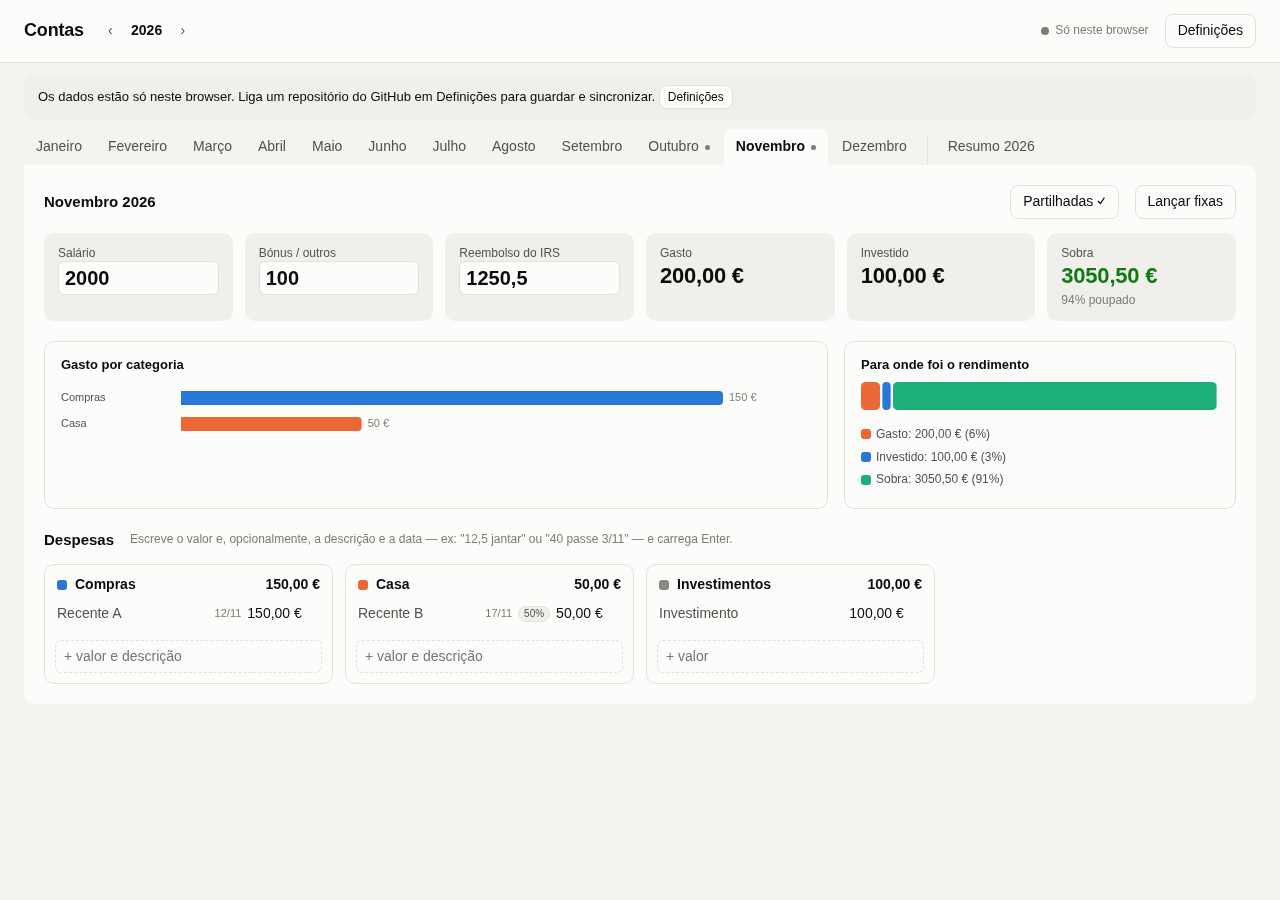
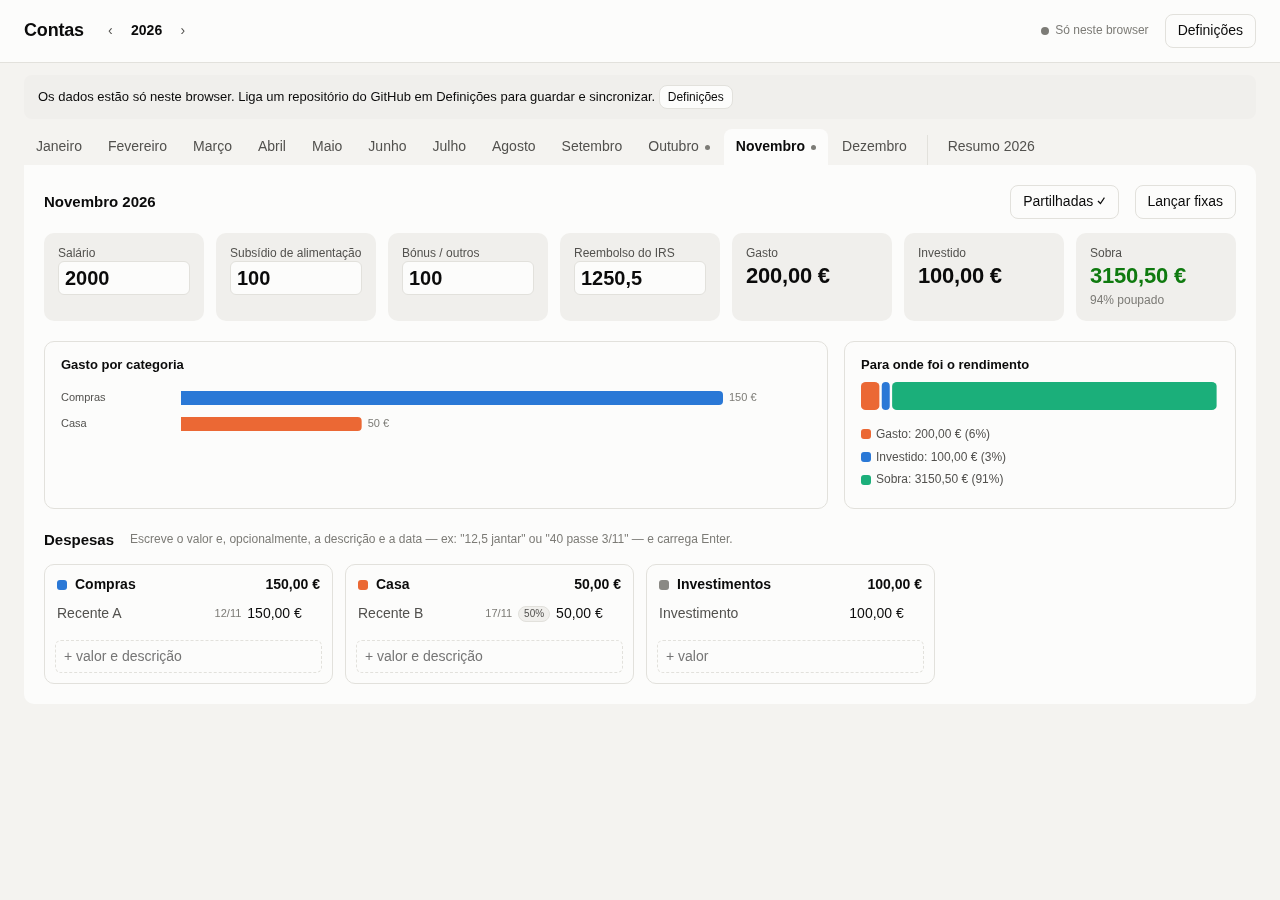
Add optional meal allowance while preserving existing IRS and records

Changed region(s): [[0.3125, 0.28, 0.7812, 0.3422], [0.8125, 0.28, 0.9375, 0.3422], [0.1875, 0.28, 0.2812, 0.3422]]

diff --git a/index.html b/index.html
@@ -240,8 +240,9 @@ function totals(y,m){
   const inv=data.categories.filter(c=>c.invest).reduce((s,c)=>s+(by[c.name]||0),0);
   const spent=Object.entries(by).reduce((s,[k,v])=>s+(data.categories.find(c=>c.name===k)?.invest?0:v),0);
   const irsRefund=+mo.irsRefund||0;
-  const income=mo.salary+mo.bonus+irsRefund;
-  return{by,inv,spent,irsRefund,income,left:income-spent-inv,hasData:mo.expenses.length>0||income>0};
+  const mealAllowance=+mo.mealAllowance||0;
+  const income=mo.salary+mo.bonus+irsRefund+mealAllowance;
+  return{by,inv,spent,irsRefund,mealAllowance,income,left:income-spent-inv,hasData:mo.expenses.length>0||income>0};
 }
 
 /* ---------- GitHub sync ---------- */
@@ -341,6 +342,7 @@ function renderMonth(v,m){
   v.append(head);
   const k=el("div",{class:"kpis"});
   k.append(moneyInput("Salário",mo.salary,n=>{month(year,m,true).salary=n;changed();render()}));
+  k.append(moneyInput("Subsídio de alimentação",mo.mealAllowance,n=>{month(year,m,true).mealAllowance=n;changed();render()},money));
   k.append(moneyInput("Bónus / outros",mo.bonus,n=>{month(year,m,true).bonus=n;changed();render()}));
   k.append(moneyInput("Reembolso do IRS",mo.irsRefund,n=>{month(year,m,true).irsRefund=n;changed();render()},money));
   k.append(kpi("Gasto",fmt(t.spent)));
@@ -410,7 +412,7 @@ function renderYear(v){
   const active=ms.filter(t=>t.hasData).length||1;
   v.append(el("div",{class:"row"},el("h2",{text:`Resumo ${year}`})));
   const k=el("div",{class:"kpis"});
-  k.append(kpi("Rendimento",fmt0(income),"","salário + bónus + IRS"),kpi("Reembolso do IRS",fmt0(sum(t=>t.irsRefund))),kpi("Gasto",fmt0(spent),"",`${fmt0(spent/active)} / mês`),kpi("Investido",fmt0(inv)),
+  k.append(kpi("Rendimento",fmt0(income),"","salário + alimentação + bónus + IRS"),kpi("Reembolso do IRS",fmt0(sum(t=>t.irsRefund))),kpi("Subsídio de alimentação",fmt0(sum(t=>t.mealAllowance))),kpi("Gasto",fmt0(spent),"",`${fmt0(spent/active)} / mês`),kpi("Investido",fmt0(inv)),
     kpi("Sobra",fmt0(left),left>=0?"pos":"neg"),kpi("Taxa de poupança",income?`${Math.round((left+inv)/income*100)}%`:"—","","sobra + investido"));
   v.append(k);
   const charts=el("div",{class:"charts"});
@@ -429,7 +431,7 @@ function renderYear(v){
   const tb=el("tbody");
   const addRow=(label,f,cls)=>{const tr=el("tr",{class:cls||""},el("td",{text:label}));let s=0;ms.forEach(t=>{const val=f(t);s+=val;tr.append(el("td",{text:val?fmt0(val):"–"}))});tr.append(el("td",{text:fmt0(s)}),el("td",{text:fmt0(s/active)}));tb.append(tr)};
   for(const c of spendCats())addRow(c.name,t=>t.by[c.name]||0);
-  addRow("Total gasto",t=>t.spent,"foot");addRow("Investimentos",t=>t.inv);addRow("Reembolso do IRS",t=>t.irsRefund);addRow("Rendimento",t=>t.income);addRow("Sobra",t=>t.hasData?t.left:0,"foot");
+  addRow("Total gasto",t=>t.spent,"foot");addRow("Investimentos",t=>t.inv);addRow("Reembolso do IRS",t=>t.irsRefund);addRow("Subsídio de alimentação",t=>t.mealAllowance);addRow("Rendimento",t=>t.income);addRow("Sobra",t=>t.hasData?t.left:0,"foot");
   tbl.append(tb);
   v.append(el("div",{class:"card"},el("h3",{text:"Tabela"}),el("div",{class:"tablewrap"},tbl)));
 }

diff --git a/docs/qa/meal-allowance.md b/docs/qa/meal-allowance.md
@@ -1,0 +1,19 @@
+# Subsídio de alimentação — verificação de regressão
+
+Data: 2026-11-18. Base: `96f7f448b8306aad07c05d14136595e760ff8310`.
+
+- Campo mensal opcional `mealAllowance`, apresentado como **Subsídio de alimentação**.
+- Incluído uma vez em rendimento/sobra e discriminado no resumo e tabela anuais.
+- Campo ausente equivale a zero; não há migração nem alteração na sincronização.
+- 9 testes Node aprovados, incluindo preservação do IRS, despesas, investimentos,
+  metadados, outros meses, JSON e comparação privada com a normalização anterior.
+- 8 cenários de navegador aprovados: computador, telemóvel, gravação e conflito
+  simulados, para ambos os campos (IRS e alimentação). Cada cenário conserva
+  um valor preexistente no outro campo; exportação e recarregamento verificados.
+- Apenas dados fictícios em testes e capturas. Contextos isolados, chamadas
+  externas bloqueadas/simuladas, nenhum token real ou dado privado incluído.
+- Criada cópia privada atual antes da alteração. Nenhuma gravação no repositório
+  dos dados faz parte da implementação, dos testes ou da publicação da aplicação.
+
+Capturas: `meal-desktop.png` e `meal-mobile.png`. Os testes existentes do IRS
+permanecem ativos e as suas capturas foram atualizadas para a interface atual.

diff --git a/README.md b/README.md
@@ -6,6 +6,12 @@ Aplicação estática pessoal para acompanhar despesas. Não requer build nem de
 
 Os dados financeiros não pertencem a este repositório de código: ficam exclusivamente no repositório privado `contas-dados`. Não copie dados reais, backups ou tokens para aqui, incluindo para testes.
 
+## Subsídio de alimentação
+
+Preencha **Subsídio de alimentação** no mês em que o recebe. Entra uma única vez no rendimento e na sobra e aparece discriminado no resumo anual. Aceita `220,50` e `1.250,50`. Se já estiver incluído no Salário ou em Bónus / outros, separe os valores para não contar duas vezes.
+
+O campo é opcional: meses antigos continuam a funcionar sem migração ou regravação automática. Os registos existentes, incluindo o IRS, são preservados.
+
 ## Reembolso do IRS
 
 No mês em que recebe o dinheiro, preencha **Reembolso do IRS**, ao lado de Salário e Bónus / outros. O valor é somado uma única vez ao rendimento e à sobra; aparece também no resumo anual e na tabela. Aceita valores como `1250,50` ou `1.250,50`.
